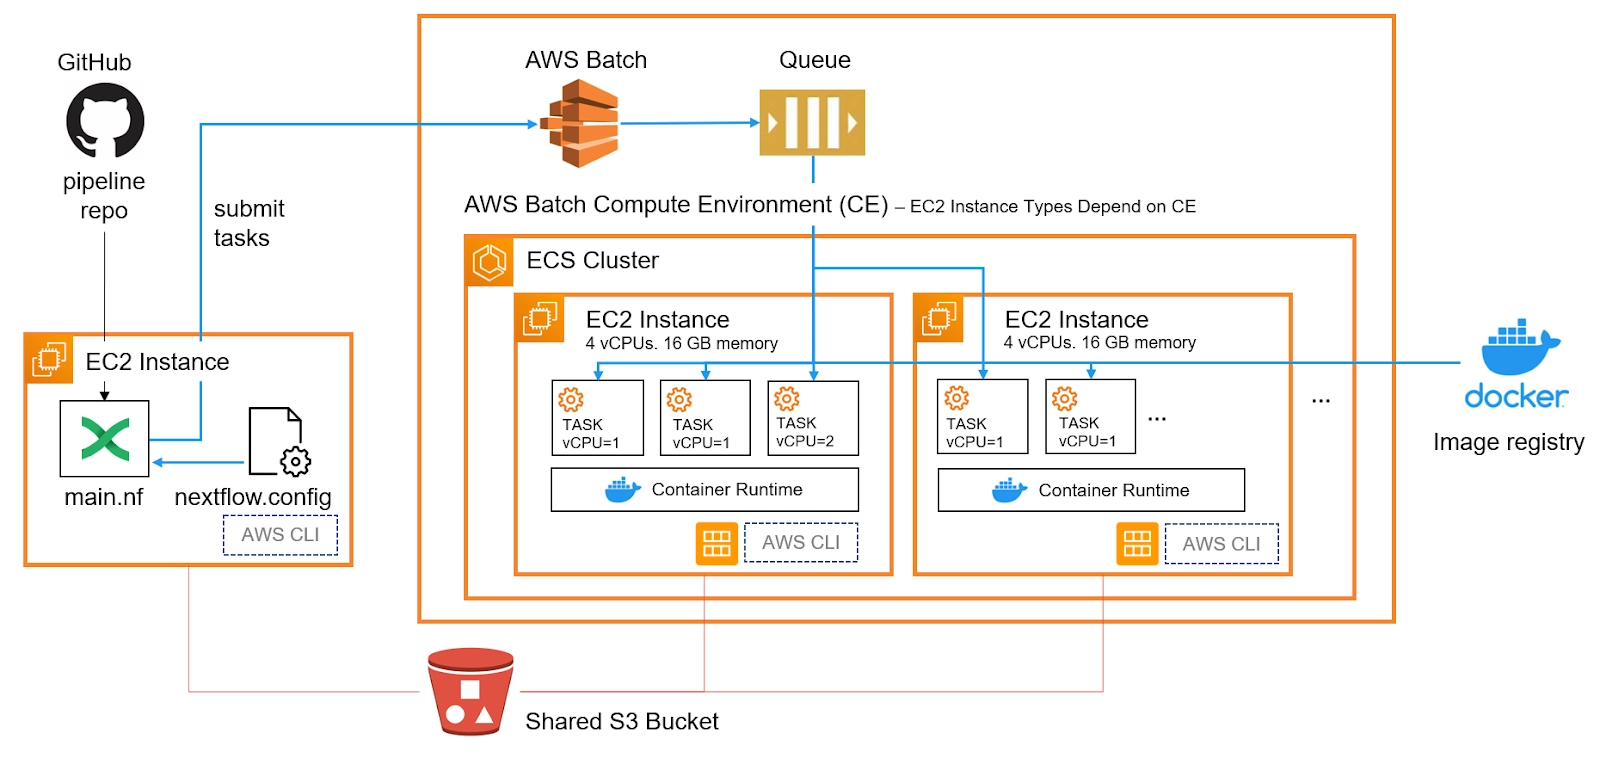
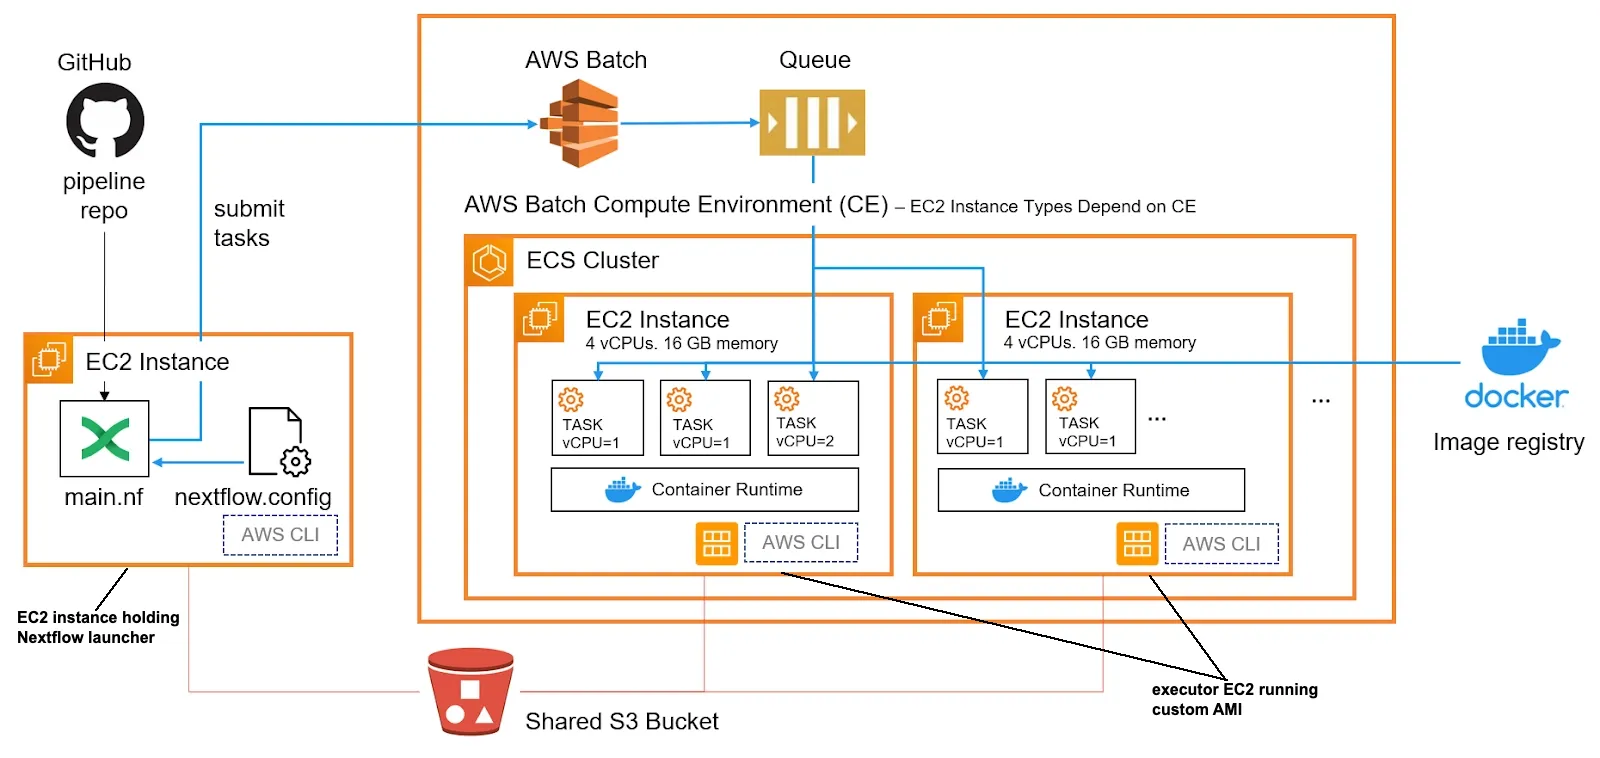
Updated README with description of all steps

Changed region(s): [[0.0, 0.7889, 0.125, 0.8496], [0.7188, 0.8799, 0.8125, 0.9406]]

diff --git a/README.md b/README.md
@@ -7,16 +7,285 @@ or [one by Tobias Neumann](https://t-neumann.github.io/pipelines/AWS-pipeline/).
 While they do go rather thoroughly though the process, they only demonstrate 
 the set up based on AWS console (i.e. button clicking) which is not scalable 
 shall you wish to deploy multiple pipeline or the same pipeline with multiple
-configuration. This is why I converted the steps of the tutorial into commands
-of AWS command line interface (CLI) and arranged them into scripts. 
+configuration. To be able to scale pipeline execution it is reasonable to use
+AWS command line interface (CLI) and corresponding command line commands 
+instead of the console. It also makes the set up more reproducible and 
+traceable. Ideally, such set up should be done via Terraform, but one has to
+start somewhere.
 
-This README is not a comprehensive tutorial for the set up and does not provide
-detailed description and reasoning behind all the commands in the scripts. This
-is why it is rather beneficial to first read though the tutorials mentioned
-above. Also, the scripts do not replicate tutorials one to one as some of the 
-parameters were initialized very far from their use place therefore introducing
-confusion. 
+This README is **not** a comprehensive tutorial for the set up and does not 
+provide a detailed description and reasoning behind all the commands in the 
+scripts. This is why it is rather beneficial to first read though the tutorials
+mentioned above. Also, the scripts do not replicate tutorials one to one as 
+some of the parameters were initialized very far from their use place therefore
+introducing confusion. 
 
 The scripts operate under assumption that you already have VPC, subnetworks and 
-users with privileges to create users, user groups, security groups, ec2 
-instances, computing environments and job queues. 
+users/profiles with privileges to create users, user groups, security groups,
+ec2 instances, computing environments and job queues.
+
+# Step 1: create the custom AMI
+![schema](nextflow-and-aws-batch.webp "Nextflow on AWS Batch schema") The image
+is taken from [here](https://seqera.io/blog/nextflow-and-aws-batch-inside-the-integration-part-1-of-3/).
+
+The schema shows a birds eye view on Nextflow integration with AWS Batch. If 
+simplified to the extreme, we first need to configure the "executer" EC2 
+instances by installation of all the software needed during Nextflow's 
+execution of tasks on that instance. Usually if the pipeline is properly 
+containerized one would only need Docker, AWS CLI and esc (Amazon Elastic 
+Container Service). AWS CLI is needed for communication between AWS Batch and
+EC2 instance which runs the task and EC2 instance which launches the Nextflow
+pipeline. Similarly, esc is needed for communication with container services.
+In order to permit AWS to create as many executor EC2 instances as required 
+with all the needed software installed, we have to save our "preset" as AMI 
+(Amazon Machine Instance). Once AMI is created, it can be reused in all 
+Nextflow pipelines.
+
+Script `create_custom_ami.sh` does exactly that:
+```
+# make script executable
+chmod +x create_custom_ami.sh
+./create_custom_ami.sh -p admin_user_profile \
+                       -r "eu-west-2" \
+                       -i "t3.2xlarge" \
+                       -u "your_user_name"
+```
+Please see below the full list of input arguments:
+
+- `-p` [REQUIRED] AWS profile name. That profile should have permissions to 
+create users, user groups, security groups and ec2 instances.
+- `-r` [REQUIRED] AWS region, i.e. `eu-west-2`. Put it in double quotes.
+- `-i` [REQUIRED] AWS instance type, i.e. `t3.2xlarge`
+- `-u` [REQUIRED] User name of the person executing this script.
+- `-e` [optional] Name of an EC2 instance. Default: `nf-EC2-` plus value of 
+`-u` argument
+- `-a` [optional] Name under which custom AMI will be saved. Default: 
+`ami-nf-aws-batch-` plus value of `-u` argument
+- `-b` [optional] Name of the base AMI. Default: 
+`/aws/service/ecs/optimized-ami/amazon-linux-2023/recommended`
+- `-h` [optional] print help message.
+
+During script execution you may be asked for the password and code from your 
+MFA device as well as if you agree to add EC2 in the list of your known hosts.
+Type `yes` in the latter case. 
+
+Do not forget to replace `admin_user_profile`, `eu-west-2`, `t3.2xlarge` and
+`your_user_name` with the actual parameters.
+
+If script's execution is successful, an AMI named 
+`ami-nf-aws-batch-your_user_name` will be created (if you used default `-a` 
+argument). This AMI will have Docker, AWS CLI, esc, git, Java and Nextflow 
+installed. You will be able to see it in your AWS console (Services > EC2 > 
+AMIs or just type "AMI" in the search bar).
+
+# Step 2: configure AWS Batch
+Now, using the custom AMI created on the previous step we can created AWS
+batch compute environment and queue. The environment and queue are essentially
+emulators of high performance computer cluster, i.e. lots of computers with 
+exactly the same set up (it is coming from AMI), work of which is managed by 
+queue. Script `configure_aws_batch.sh` will create AWS batch set up for you. It
+will also create a user and user group for you which Nextflow will use to 
+assess AWS batch. Finally, it will create an S3 bucket where the results of 
+pipeline execution will be stored.
+
+```
+# make script executable
+chmod +x configure_aws_batch.sh
+./configure_aws_batch.sh -p admin_user_profile \
+                         -r "eu-west-2" \
+                         -u "your_user_name" \
+                         -b "s3-nf-bucket"
+```
+Please see below the full list of input arguments:
+
+- `-p` [REQUIRED] AWS profile name. That profile should have permissions to 
+create users, user groups, security groups and ec2 instances.
+- `-r` [REQUIRED] AWS region, i.e. eu-west-2. Put it in double quotes.
+- `-u` [REQUIRED] User name of the person executing this script.
+- `-b` [REQUIRED] A name for S3 bucket to store files in. S3 bucket names can 
+consist only of lowercase letters, numbers, dots (.), and hyphens (-).
+- `-a` [optional] Name of custom AMI with installed at least Docker, ecs and 
+AWS CLI. Default: `ami-nf-aws-batch-` plus value of `-u` argument. If you set
+up a custom AMI name in the `create_custom_ami.sh`, use it here too.
+- `-i` [optional] User name to be given to the new user under which Nextflow
+will assess AWS batch. Default: `nf-program-access-` plus value of `-u` 
+argument.
+- `-g` [optional] User group name to be given to the new user group under 
+which Nextflow will assess AWS batch. Default: `nf-group-` plus value of `-u`
+argument.
+- `-e` [optional] Name of an EC2 instance. Default: `nf-EC2-` plus value of 
+`-u` argument.
+- `-c` [optional] Name of the new AWS Batch compute environment under which 
+Nextflow will run jobs. Default: `nf-aws-batch-` plus value of `-u` argument.
+- `-j` [optional] Name of the new AWS Batch job queue under which Nextflow 
+will run jobs. Default: `nf-queue-` plus value of `-u` argument.
+- `-h` print help message,
+
+Do not forget to replace `admin_user_profile`, `eu-west-2`, `s3-nf-bucket` and
+`your_user_name` with the actual parameters.
+
+Upon script's successful execution a user named `nf-program-access-` plus 
+value of `-u` argument, a user group named `nf-group-` plus value of `-u`
+argument, a compute environment named `nf-aws-batch-` plus value of `-u` 
+argument and an AWS Batch job queue named  `nf-queue-` plus value of `-u` 
+argument will be create in case of default arguments given to the script. In
+addition, a S3 bucket will be created.
+
+# Step 3: create EC2 instance - Nextflow launcher
+At the final step of the set up, an EC2 instance which will be used for
+launching a Nextflow pipeline will be created. While a custom AMI created on
+the first step will be used for that too, it is not strictly nessecacy.
+Ultimately, one would only need Nextflow, AWS CLI and esc installed on that 
+instance. 
+
+The script `create_nextflow_launcher_ec2.sh` created the Nextlow launcher EC2
+instance:
+```
+# make script executable
+chmod +x create_nextflow_launcher_ec2.sh
+./create_nextflow_launcher_ec2.sh -p admin_user_profile \
+                                  -r "eu-west-2" \
+                                  -u "your_user_name" \
+                                  -t "t3.2xlarge"
+```
+Please see below the full list of input arguments:
+- `p` [REQUIRED] AWS profile name. That profile should have permissions to 
+create users, user groups, security groups and ec2 instances.
+- `r` [REQUIRED] AWS region, i.e. `eu-west-2`. Put it in double quotes.
+- `t` [REQUIRED] AWS instance type, i.e. `t3.2xlarge`
+- `u` [REQUIRED] User name of the person executing this script.
+- `i` [optional] User name to be given to a user under which Nextflow will
+assess AWS batch. Default: Default: `nf-program-access-` plus value of `-u`
+argument.
+- `e` [optional] Name of an EC2 instance to be created. Default: `nf-EC2-` plus
+value of `-u` argument.
+- `a` [optional] Name of the custom AMI to be used. Default: 
+`ami-nf-aws-batch-` plus value of `-u` argument
+- `h` print the help message
+
+Do not forget to replace `admin_user_profile`, `eu-west-2`, `t3.2xlarge` and
+`your_user_name` with the actual parameters.
+
+Upon script's successful execution, you will see a message with the `ssh` 
+command you'll need to execute to log in to the newly created EC2 instance
+which holds Nextflow launcher:
+
+```
+ssh -i key_pair.pem ec2-user@ec2-XX-XXX-XXX-XX.eu-west-2.compute.amazonaws.com
+```
+where `key_pair.pem` stands for the key pair file created by the script. If the
+default settings were used, it will be `nf-EC2-your_user_name-keypair.pem`. 
+You'll also see numbers instead of XX. `eu-west-2` should be replaced by the 
+corresponding region which you set up during script's execution. 
+
+Record this command as it will be used on the next step.
+
+# Step 4: configure Nextflow & execute the pipeline
+Nextflow pipeline execution on AWS will be demonstrated on the small RNA-seq 
+pipeline called [`rnaseq-nf`](https://github.com/nextflow-io/rnaseq-nf/). To 
+execute this pipeline, 3 files will be needed: `ggal_lung_R1.fq`, 
+`ggal_lung_R2.fq` and `ggal_1_48850000_49020000.Ggal71.500bpflank.fa`. All 
+these files can be downloaded from the 
+(github repo of the pipeline)[https://github.com/nextflow-io/rnaseq-nf/tree/master/data/ggal]. 
+Then, upload these files to the S3 bucket created on the step 2 via console. 
+You're now ready to execute Nextflow pipeline.
+
+Login to the EC2 instance holding Nextflow launcher (copy the command displayed
+at the end of the execution of the previous step):
+```
+ssh -i key_pair.pem ec2-user@ec2-XX-XXX-XXX-XX.eu-west-2.compute.amazonaws.com
+```
+Next, pull the pipeline:
+```
+nextflow pull rnaseq-nf
+```
+By default, pipeline code will be stored in `~/.nextflow/assets/nextflow-io/`
+folder. Modify `~/.nextflow/assets/nextflow-io/rnaseq-nf/nextflow.config` via
+`vi` editor:
+
+```
+vi ~/.nextflow/assets/nextflow-io/rnaseq-nf/nextflow.config
+```
+Replace `batch` section of the file (lines 74 - 83) with the following:
+```
+  batch {
+    params.reads = 's3://s3-nf-bucket/ggal_lung_{1,2}.fq'
+    params.transcriptome = 's3://s3-nf-bucket/ggal_1_48850000_49020000.Ggal71.500bpflank.fa'
+    process.container = 'quay.io/nextflow/rnaseq-nf:v1.2.1'
+    process.executor = 'awsbatch'
+    process.queue = 'nf-queue-your_user_name'
+    workDir = 's3://s3-nf-bucket/work'
+    aws.region = 'eu-west-2'
+    aws.batch.cliPath = '/home/ec2-user/miniconda/bin/aws'
+  }
+```
+Do not forget to replace `s3-nf-bucket`, `eu-west-2` and 
+`nf-queue-your_user_name` with the corresponding values which you set up during
+the script's execution. 
+
+Save and exit the script by pressing `esc` button, and then pressing 
+combination of `:`, `w` and `q`.
+
+Finally, run the pipeline:
+
+```
+nextflow run rnaseq-nf -profile batch --output s3://s3-nf-bucket/results/
+```
+You should see the following messages appear:
+
+```
+ N E X T F L O W   ~  version 24.04.2
+
+Launching `https://github.com/nextflow-io/rnaseq-nf` [awesome_elion] DSL2 - revision: 55133f624d [master]
+
+ R N A S E Q - N F   P I P E L I N E
+ ===================================
+ transcriptome: s3://s3-nf-bucket/data/ggal/ggal_1_48850000_49020000.Ggal71.500bpflank.fa
+ reads        : s3://s3-nf-bucket/data/ggal/ggal_lung_{1,2}.fq
+ outdir       : results
+ 
+Uploading local `bin` scripts folder to s3://s3-nf-bucket/work/tmp/4b/03994f65eb8ca2085bc9bb8c64e800/bin
+executor >  awsbatch (4)
+[2e/dd7495] RNASEQ:INDEX (ggal_1_48850000_49020000) [100%] 1 of 1 ✔
+[3d/a0aa23] RNASEQ:FASTQC (FASTQC on ggal_lung)     [100%] 1 of 1 ✔
+[b7/ec11b6] RNASEQ:QUANT (ggal_lung)                [100%] 1 of 1 ✔
+[3f/6185ea] MULTIQC                                 [100%] 1 of 1 ✔
+Completed at: 17-Jun-2024 08:50:06
+Duration    : 6m 51s
+CPU hours   : (a few seconds)
+Succeeded   : 4
+```
+
+In case the pipeline run can take a very long time to complete, consider using
+`-bg` option.
+
+# Step 5: clean up after Nextflow pipeline completion
+Run script `clean_up_aws_batch.sh` to delete user, user group, role, security
+group, AWS batch queue and compute environment and EC2 instance holding the 
+Nextflow launcher created for the pipeline's execution:
+
+```
+chmod +x clean_up_aws_batch.sh
+./cleanup.sh -p admin_user_profile -r "eu-west-2" -u "your_user_name" 
+```
+
+Please see below the full list of input arguments:
+-`p` [REQUIRED] AWS profile name. That profile should have permissions to 
+delete users, user groups, security groups and ec2 instances.
+-`r` [REQUIRED] AWS region, i.e. `eu-west-2`. Put it in double quotes.
+-`u` [REQUIRED] User name of the person executing this script.
+-`i` [optional] User name of a user under which Nextflow assessed AWS batch. 
+Default: `nf-program-access-` plus value of `-u` argument.
+-`g` [optional] User group name to which user under which Nextflow assessed AWS
+batch was assigned to. Default: `nf-group-` plus value of `-u` argument.
+-`e` [optional] Name of an EC2 instance on which Nextflow launcher was set. 
+Default: `nf-EC2-` plus value of `-u` argument.
+-`c` [optional] Name of the AWS Batch compute environment under which Nextflow
+had run jobs. Default: `nf-aws-batch-` plus value of `-u` argument.
+-`j` [optional] Name of the AWS Batch job queue under which Nextflow had run
+jobs. Default: `nf-queue-` plus value of `-u` argument.
+-`h` print this help
+
+> Attention! `clean_up_aws_batch.sh` will not delete custom AMI created at step
+1 or S3 bucket created at step 2 as they can be reused (AMI) or contain results
+of pipeline execution.
